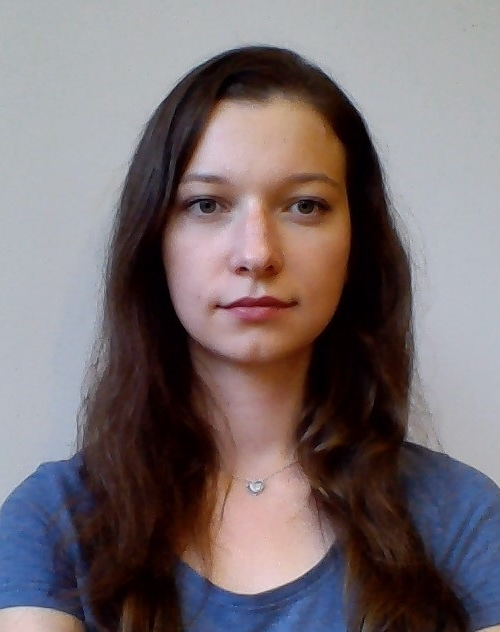
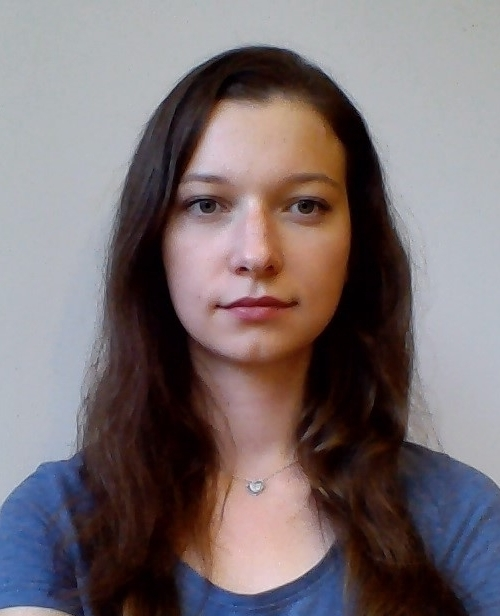
brano photo added, big photos resized

diff --git a/index.html b/index.html
@@ -129,7 +129,7 @@
         <div class="row team-row">
           <div class="col-lg-3 col-md-6 col-xs-12">
             <div class="single-team">
-              <img class="profile-photo" src="img/team/foto.jpg" alt="">
+              <img class="profile-photo" src="img/team/brano.jpg" alt="">
               <div class="team-details">
                 <div class="team-inner">
                   <h4 class="team-title">Baláž Branislav</h4>
